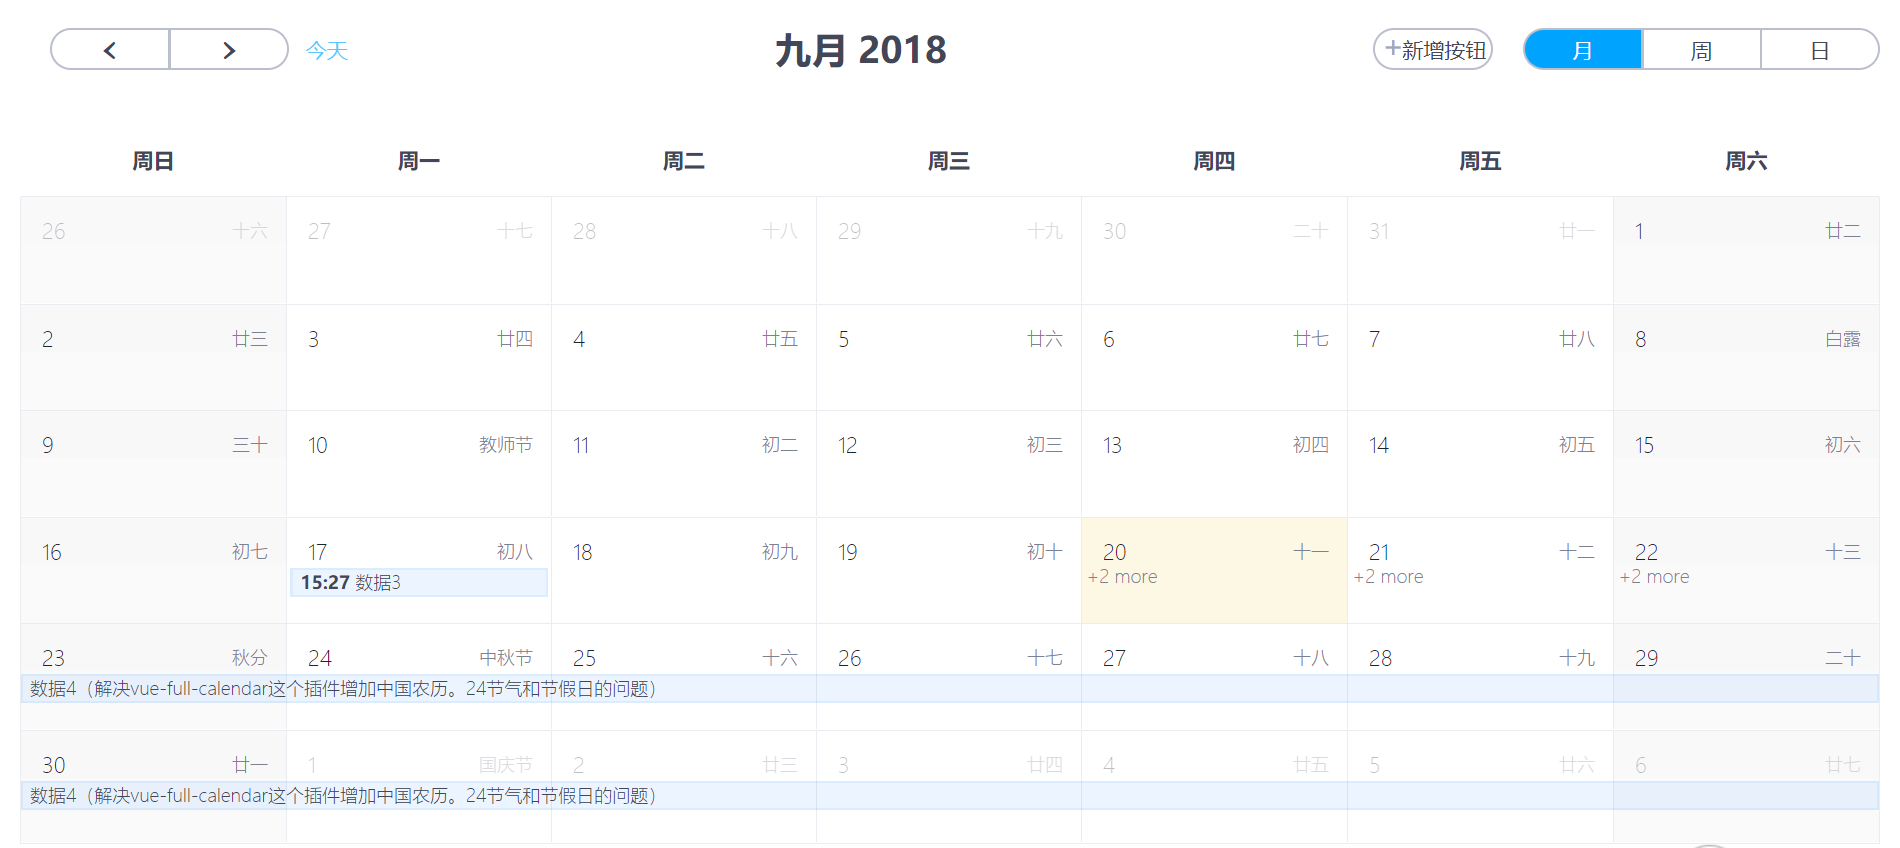
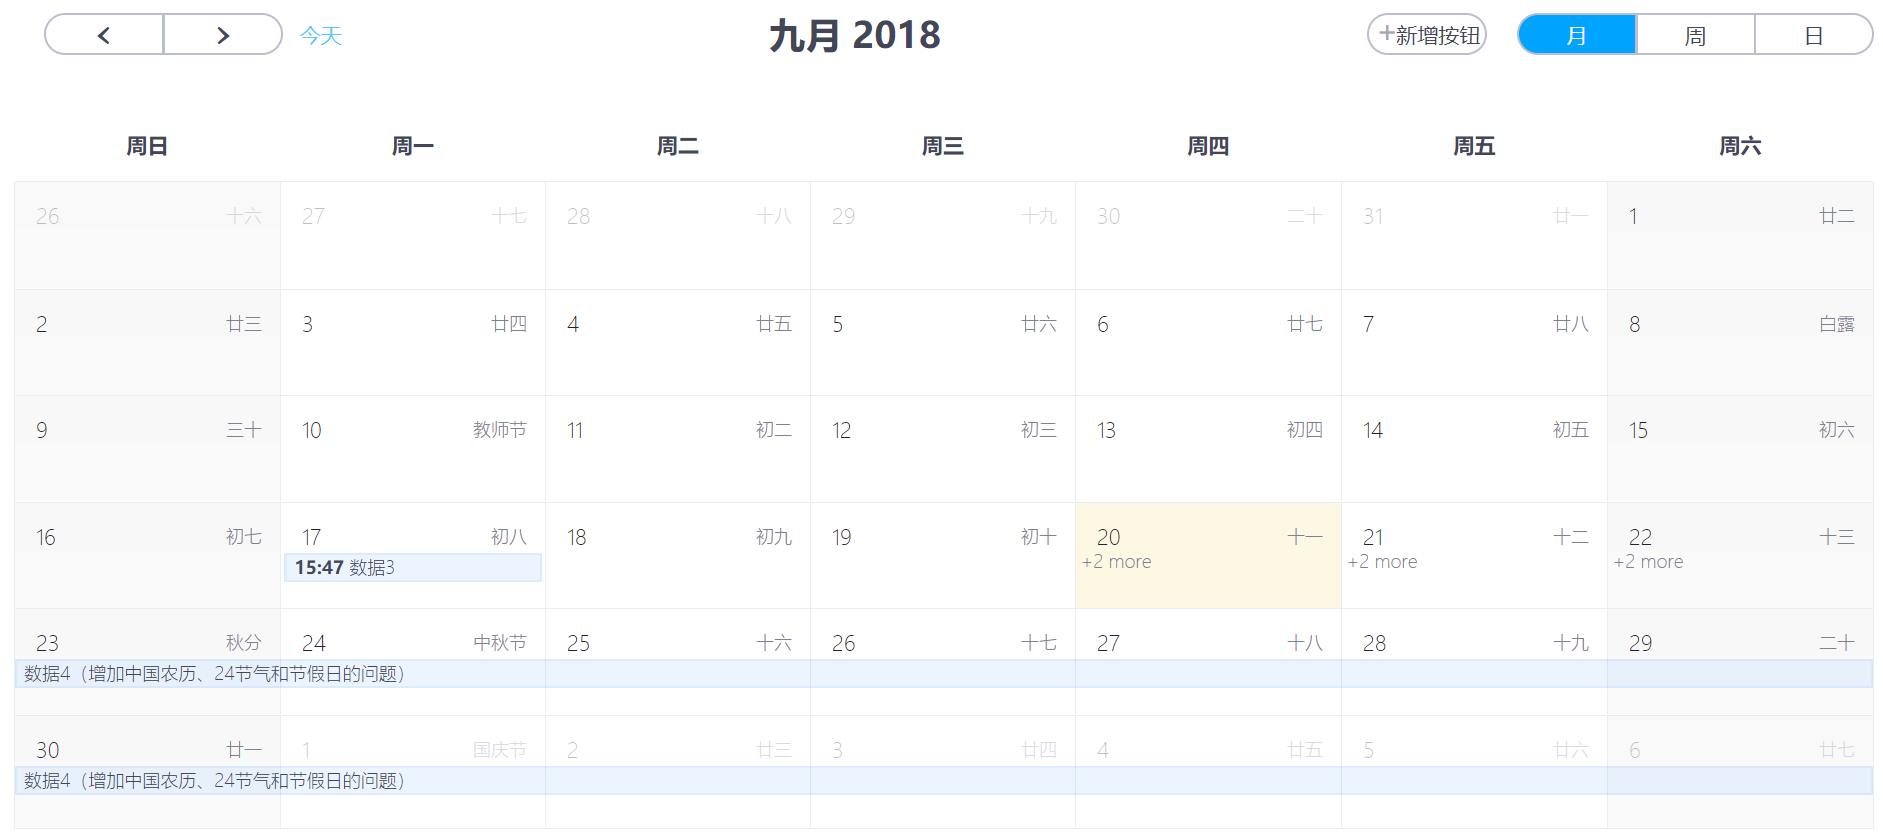
update

diff --git a/src/view/calendar.vue b/src/view/calendar.vue
@@ -36,7 +36,7 @@ export default{
                 },
                 {
                     id: 4,
-                    title: '数据4（解决vue-full-calendar这个插件增加中国农历。24节气和节假日的问题）',
+                    title: '数据4（增加中国农历、24节气和节假日的问题）',
                     start: new Date(),
                     end: new Date().getTime() + 30 * 24 * 60 * 60 * 1000
                 },
